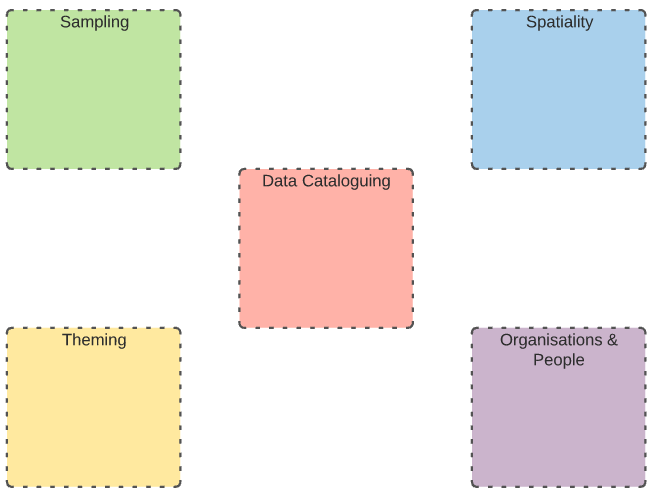
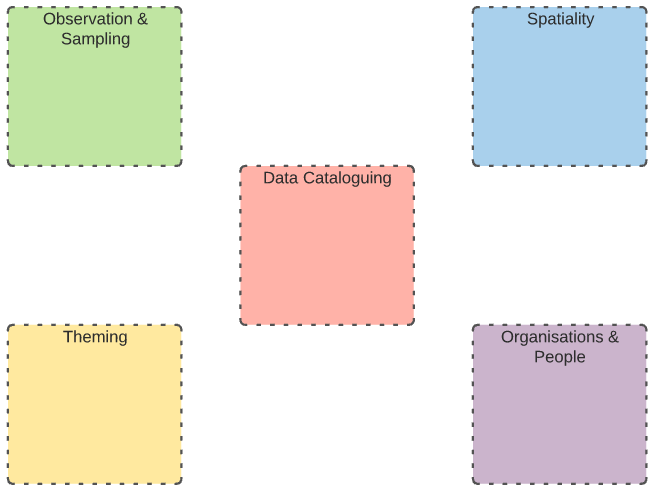
Deploying to gh-pages from  @ ba871bdd9e9633711c49eee8fa49b231d254dd38 🚀

diff --git a/supermodel.html b/supermodel.html
@@ -473,7 +473,12 @@ body.book #toc,body.book #preamble,body.book h1.sect0,body.book .sect1>h2{page-b
 <li><a href="#_theming_domain">5.5. Theming Domain</a></li>
 </ul>
 </li>
-<li><a href="#_annex_a_pid_policy">Annex A: PID Policy</a></li>
+<li><a href="#_annex_a_profile_requirements">Annex A: Profile Requirements</a>
+<ul class="sectlevel2">
+<li><a href="#_a_1_material_sample_class">A.1 Material Sample Class</a></li>
+</ul>
+</li>
+<li><a href="#_annex_b_pid_policy">Annex B: PID Policy</a></li>
 <li><a href="#_references">References</a></li>
 </ul>
 </div>
@@ -506,7 +511,7 @@ body.book #toc,body.book #preamble,body.book h1.sect0,body.book .sect1>h2{page-b
 </tr>
 <tr>
 <td class="tableblock halign-left valign-top"><p class="tableblock"><strong>Modified</strong></p></td>
-<td class="tableblock halign-left valign-top"><p class="tableblock">2022-03-02</p></td>
+<td class="tableblock halign-left valign-top"><p class="tableblock">2022-03-30</p></td>
 </tr>
 <tr>
 <td class="tableblock halign-left valign-top"><p class="tableblock"><strong>Issued</strong></p></td>
@@ -538,7 +543,7 @@ body.book #toc,body.book #preamble,body.book h1.sect0,body.book .sect1>h2{page-b
 <div class="sect2">
 <h3 id="_abstract">2.1. Abstract</h3>
 <div class="paragraph">
-<p>This Model - the GA Supermodel - is <a href="https://www.ga.gov.au">Geoscience Australia</a>'s overarching data model that provides integration logic for data elements in many of GA&#8217;s specialised domains. It also provides logic for Persistent Identifier (PID) patterning.</p>
+<p>This Model - the GA Supermodel - is <a href="https://www.ga.gov.au">Geoscience Australia</a>'s overarching data model that provides integration logic for data elements in many of GA&#8217;s specialised domains. It also provides logic for Persistent Identifier (PID) patterning. It is based on the general-purpose <a href="https://linked.data.gov.au/def/supermodel">Supermodel Model</a>.</p>
 </div>
 </div>
 <div class="sect2">
@@ -546,12 +551,12 @@ body.book #toc,body.book #preamble,body.book h1.sect0,body.book .sect1>h2{page-b
 <div class="paragraph">
 <p>This model is built on a "baseline" of Semantic Web models which use a variatey of namespaces. Prefixes for thess namespaces, used througout this document, are listed below.</p>
 </div>
-<table id="tbl-prefixes" class="tableblock frame-none grid-none stripes-even" style="width: 75%;">
+<table id="tbl-prefixes" class="tableblock frame-none grid-none stripes-even stretch">
 <caption class="title">Table 1. Namespaces</caption>
 <colgroup>
-<col style="width: 33.3333%;">
-<col style="width: 33.3333%;">
-<col style="width: 33.3334%;">
+<col style="width: 11.1111%;">
+<col style="width: 44.4444%;">
+<col style="width: 44.4445%;">
 </colgroup>
 <thead>
 <tr>
@@ -562,9 +567,9 @@ body.book #toc,body.book #preamble,body.book h1.sect0,body.book .sect1>h2{page-b
 </thead>
 <tbody>
 <tr>
-<td class="tableblock halign-left valign-top"><p class="tableblock"><strong><code>super</code></strong></p></td>
-<td class="tableblock halign-left valign-top"><p class="tableblock"><strong><code><a href="https://linked.data.gov.au/def/ga-supermodel/" class="bare">https://linked.data.gov.au/def/ga-supermodel/</a></code></strong></p></td>
-<td class="tableblock halign-left valign-top"><p class="tableblock"><strong>this model</strong></p></td>
+<td class="tableblock halign-left valign-top"><p class="tableblock"><strong><code>super:</code></strong></p></td>
+<td class="tableblock halign-left valign-top"><p class="tableblock"><strong><code><a href="https://linked.data.gov.au/def/supermodel/" class="bare">https://linked.data.gov.au/def/supermodel/</a></code></strong></p></td>
+<td class="tableblock halign-left valign-top"><p class="tableblock"><strong>the Supermodel meta-model</strong></p></td>
 </tr>
 <tr>
 <td class="tableblock halign-left valign-top"><p class="tableblock"><code>dcterms:</code></p></td>
@@ -623,7 +628,7 @@ body.book #toc,body.book #preamble,body.book h1.sect0,body.book .sect1>h2{page-b
 <dl>
 <dt class="hdlist1">Central Class</dt>
 <dd>
-<p><code><a href="http://pid.geoscience.gov.au/def/sm/terms-definitions/central-class" class="bare">http://pid.geoscience.gov.au/def/sm/terms-definitions/central-class</a></code></p>
+<p><code><a href="https://linked.data.gov.au/def/supermodel-td/central-class">smtd:central-class</a></code></p>
 <div class="paragraph">
 <p>Central Classes are the generic data classes at the centre of Data Domains with high-level relationships between them defined in this supermodel.</p>
 </div>
@@ -637,7 +642,7 @@ body.book #toc,body.book #preamble,body.book h1.sect0,body.book .sect1>h2{page-b
 <dl>
 <dt class="hdlist1">Data Domain</dt>
 <dd>
-<p><code><a href="http://pid.geoscience.gov.au/def/sm/terms-definitions/data-domain" class="bare">http://pid.geoscience.gov.au/def/sm/terms-definitions/data-domain</a></code></p>
+<p><code><a href="https://linked.data.gov.au/def/supermodel-td/data-domain">smtd:data-domain</a></code></p>
 <div class="paragraph">
 <p>High-level conceptual areas within which Geosicence Australia has data.</p>
 </div>
@@ -654,7 +659,7 @@ body.book #toc,body.book #preamble,body.book h1.sect0,body.book .sect1>h2{page-b
 <dl>
 <dt class="hdlist1">Knowledge Graph</dt>
 <dd>
-<p><code><a href="http://pid.geoscience.gov.au/def/sm/terms-definitions/knowledge-graph" class="bare">http://pid.geoscience.gov.au/def/sm/terms-definitions/knowledge-graph</a></code></p>
+<p><code><a href="https://linked.data.gov.au/def/supermodel-td/knowledge-graph">smtd:knowledge-graph</a></code></p>
 <div class="paragraph">
 <p>A Knowledge Graph is a dataset that uses a graph data tructure - nodes and edges - with strongly-defined elements.</p>
 </div>
@@ -665,7 +670,7 @@ body.book #toc,body.book #preamble,body.book h1.sect0,body.book .sect1>h2{page-b
 <dl>
 <dt class="hdlist1">Linked Data</dt>
 <dd>
-<p><code><a href="http://pid.geoscience.gov.au/def/sm/terms-definitions/linked-data" class="bare">http://pid.geoscience.gov.au/def/sm/terms-definitions/linked-data</a></code></p>
+<p><code><a href="https://linked.data.gov.au/def/supermodel-td/linked-data">smtd:linked-data</a></code></p>
 <div class="paragraph">
 <p>A set of technologies and conventions defined by the <a href="https://www.w3.org">World Wide Web Consortium</a> that aim to present data in both human- and machine-readable form over the Internet.</p>
 </div>
@@ -685,7 +690,7 @@ body.book #toc,body.book #preamble,body.book h1.sect0,body.book .sect1>h2{page-b
 <dl>
 <dt class="hdlist1">Semantic Web</dt>
 <dd>
-<p><code><a href="http://pid.geoscience.gov.au/def/sm/terms-definitions/semantic-web" class="bare">http://pid.geoscience.gov.au/def/sm/terms-definitions/semantic-web</a></code></p>
+<p><code><a href="https://linked.data.gov.au/def/supermodel-td/semantic-web">smtd:semantic-web</a></code></p>
 <div class="paragraph">
 <p>The <a href="https://www.w3.org">World Wide Web Consortium</a>'s vision of an Internet-based web of Linked Data.</p>
 </div>
@@ -734,7 +739,7 @@ body.book #toc,body.book #preamble,body.book h1.sect0,body.book .sect1>h2{page-b
 <div class="sect2">
 <h3 id="_uses">3.1. Uses</h3>
 <div class="paragraph">
-<p>This model should be used to understand the broad relationships between any data elements within GA. It can also be used to inform policy that is based on GA&#8217;s overall data structure, for example persistent identifier (PID) policy for which there is a dedicated Annex, <a href="#_annex_a_pid_policy">Annex A: PID Policy</a>.</p>
+<p>This model should be used to understand the broad relationships between any data elements within GA. It can also be used to inform policy that is based on GA&#8217;s overall data structure, for example persistent identifier (PID) policy for which there is a dedicated Annex, <a href="#Annex A: PID Policy">Annex A: PID Policy</a>.</p>
 </div>
 </div>
 </div>
@@ -842,19 +847,19 @@ body.book #toc,body.book #preamble,body.book h1.sect0,body.book .sect1>h2{page-b
 <div class="olist arabic">
 <ol class="arabic">
 <li>
-<p><a href="http://pid.geoscience.gov.au/def/sm/data-domains/data-cataloguing:">Data Cataloguing</a></p>
+<p><a href="https://linked.data.gov.au/def/supermodel/data-domains/data-cataloguing">Data Cataloguing</a></p>
 </li>
 <li>
-<p><a href="http://pid.geoscience.gov.au/def/sm/data-domains/organisations-people:">Organisations &amp; People</a></p>
+<p><a href="https://linked.data.gov.au/def/supermodel/data-domains/organisations-people">Organisations &amp; People</a></p>
 </li>
 <li>
-<p><a href="http://pid.geoscience.gov.au/def/sm/data-domains/sampling:">Sampling</a></p>
+<p><a href="https://linked.data.gov.au/def/supermodel/data-domains/theming">Theming</a></p>
 </li>
 <li>
-<p><a href="http://pid.geoscience.gov.au/def/sm/data-domains/spatiality:">Spatiality</a></p>
+<p><a href="https://linked.data.gov.au/def/supermodel/data-domains/observation">Sampling &amp; Observation</a></p>
 </li>
 <li>
-<p><a href="http://pid.geoscience.gov.au/def/sm/data-domains/theming:">Theming</a></p>
+<p><a href="https://linked.data.gov.au/def/supermodel/data-domains/spatiality">Spatiality</a></p>
 </li>
 </ol>
 </div>
@@ -868,7 +873,7 @@ body.book #toc,body.book #preamble,body.book h1.sect0,body.book .sect1>h2{page-b
 <div class="title">Figure 4. Top-level view of the GA Supermodel showing Data Domains</div>
 </div>
 <div class="paragraph">
-<p>These Data Domains are defined formally in a simple SKOS vocabulary within this model&#8217;s set of machine-readable resources. The vocabulary may be access ddirectly at <a href="http://pid.geoscience.gov.au/def/sm/data-domains" class="bare">http://pid.geoscience.gov.au/def/sm/data-domains</a>.</p>
+<p>These Data Domains are defined formally in a simple SKOS vocabulary within this model&#8217;s set of machine-readable resources. The vocabulary may be access ddirectly at <a href="https://linked.data.gov.au/def/supermodel/data-domains" class="bare">https://linked.data.gov.au/def/supermodel/data-domains</a>.</p>
 </div>
 <div class="paragraph">
 <p>Elements at all other levels of detail in this model are classified according to these Data Domains by use of the <code>dcat:theme</code> property, for example, the class <code>sosa:Sample</code> is within the <em>Sampling</em> Data Domain, so it is defined as follows:</p>
@@ -1119,7 +1124,7 @@ This supermodel&#8217;s origins are in GA&#8217;s geology and spatial data work 
 <p>This Data Domain&#8217;s main classes are taken directly from GeoSPARQL 1.1 <a href="#GEO">[GEO]</a> which is used extensively in GA already. GeoSPARQL&#8217;s main purposes are to relate things (<code>geo:Feature</code>) to their spatial projections - their geometries - and to relate things to one another - topological relations between features, such as <em>within</em>, <em>touches</em>, <em>disjoint</em> etc.</p>
 </div>
 <div class="paragraph">
-<p>Particular datasets tend to implement specialised types of things (usually referred to as <em>Feature Types</em>) and sometimes specialised relations between things, e.g. special <em>hydrological catchment</em> feature type might relate to another by being <em>upstream</em> of it. This is as per modelling in the Geofabric footnot:[<a href="https://linked.data.gov.au/dataset/geofabric" class="bare">https://linked.data.gov.au/dataset/geofabric</a>].</p>
+<p>Particular datasets tend to implement specialised types of things (usually referred to as <em>Feature Types</em>) and sometimes specialised relations between things, e.g. special <em>hydrological catchment</em> feature type might relate to another by being <em>upstream</em> of it. This is as per modelling in the Geofabric <sup class="footnote">[<a id="_footnoteref_3" class="footnote" href="#_footnotedef_3" title="View footnote.">3</a>]</sup>.</p>
 </div>
 </div>
 <div class="sect3">
@@ -1134,7 +1139,7 @@ This supermodel&#8217;s origins are in GA&#8217;s geology and spatial data work 
 <div class="title">Figure 12. Domain Main Classes for Theming</div>
 </div>
 <div class="paragraph">
-<p>This Data Domain&#8217;s main classes are taken from <a href="#SKOS">[SKOS]</a> and their expected/required properties and relations are formally defined in <em>VocPub</em>, a "vocabulary publication profile of SKOS" <a href="#VOCPUB">[VOCPUB]</a>. VocPub just mandates certain vocabulary metadata and relations between elements in vocabularies. Conformance of vocabularies to VocPub is also easily testable using the profile&#8217;s validator and online tooling that support it <sup class="footnote">[<a id="_footnoteref_3" class="footnote" href="#_footnotedef_3" title="View footnote.">3</a>]</sup>.</p>
+<p>This Data Domain&#8217;s main classes are taken from <a href="#SKOS">[SKOS]</a> and their expected/required properties and relations are formally defined in <em>VocPub</em>, a "vocabulary publication profile of SKOS" <a href="#VOCPUB">[VOCPUB]</a>. VocPub just mandates certain vocabulary metadata and relations between elements in vocabularies. Conformance of vocabularies to VocPub is also easily testable using the profile&#8217;s validator and online tooling that support it <sup class="footnote">[<a id="_footnoteref_4" class="footnote" href="#_footnotedef_4" title="View footnote.">4</a>]</sup>.</p>
 </div>
 </div>
 </div>
@@ -1252,7 +1257,72 @@ This supermodel&#8217;s origins are in GA&#8217;s geology and spatial data work 
 </div>
 </div>
 <div class="sect1">
-<h2 id="_annex_a_pid_policy">Annex A: PID Policy</h2>
+<h2 id="_annex_a_profile_requirements">Annex A: Profile Requirements</h2>
+<div class="sectionbody">
+<div class="paragraph">
+<p><em>Requirements</em> for this specification are organised as perr the classes within the GA Supermodel. See the <a href="https://surroundaustralia.github.io/ga-supermodel/supermodel.html">Supermodel main documentation</a> for more information.</p>
+</div>
+<div class="sect2">
+<h3 id="_a_1_material_sample_class">A.1 Material Sample Class</h3>
+<div class="paragraph">
+<p><code>tern:MaterialSample</code></p>
+</div>
+<div class="paragraph">
+<p>The <a href="https://linkeddata.tern.org.au/viewers/tern-ontology">TERN Ontology</a> defines a <code>tern:MaterialSample</code> subclass of <a href="https://www.w3.org/TR/vocab-ssn/">SOSA</a>'s <code>Sample</code> class which is used by GA for physical samples.</p>
+</div>
+<table class="tableblock frame-all grid-all stripes-even stretch">
+<colgroup>
+<col style="width: 5.5555%;">
+<col style="width: 16.6666%;">
+<col style="width: 33.3333%;">
+<col style="width: 44.4446%;">
+</colgroup>
+<thead>
+<tr>
+<th class="tableblock halign-left valign-top">ID</th>
+<th class="tableblock halign-left valign-top">Title</th>
+<th class="tableblock halign-left valign-top">Rule</th>
+<th class="tableblock halign-left valign-top">Notes</th>
+</tr>
+</thead>
+<tbody>
+<tr>
+<td class="tableblock halign-left valign-top"><p class="tableblock"><a href="https://linked.data.gov.au/def/ga-supermodel/req/ms.1">req:ms.1</a></p></td>
+<td class="tableblock halign-left valign-top"><p class="tableblock">Material Sample IGSN</p></td>
+<td class="tableblock halign-left valign-top"><p class="tableblock">Each Material Sample <em>MUST</em> indicate an IGSN with a <code>dcterms:identifier</code> property with an object of datatype <code>gas:igsnIri</code></p></td>
+<td class="tableblock halign-left valign-top"></td>
+</tr>
+<tr>
+<td class="tableblock halign-left valign-top"><p class="tableblock"><a href="https://linked.data.gov.au/def/ga-supermodel/req/ms.2">req:ms.2</a></p></td>
+<td class="tableblock halign-left valign-top"><p class="tableblock">Material Sample Sample ID</p></td>
+<td class="tableblock halign-left valign-top"><p class="tableblock">Each Material Sample <em>MUST</em> indicate an GA Sample ID with a <code>dcterms:identifier</code> property with an object of datatype <code>gas:sampleid</code></p></td>
+<td class="tableblock halign-left valign-top"></td>
+</tr>
+<tr>
+<td class="tableblock halign-left valign-top"><p class="tableblock"><a href="https://linked.data.gov.au/def/ga-supermodel/req/ms.z">req:ms.z</a></p></td>
+<td class="tableblock halign-left valign-top"><p class="tableblock">Material Sample State</p></td>
+<td class="tableblock halign-left valign-top"><p class="tableblock">Each Material Sample <em>MAY</em> indicate the Australian State they were aquired within and, if it does, it must indicate the state with its IRI taken from the ASGS2021 dataset</p></td>
+<td class="tableblock halign-left valign-top"></td>
+</tr>
+<tr>
+<td class="tableblock halign-left valign-top"><p class="tableblock"><a href="https://linked.data.gov.au/def/ga-supermodel/req/ms.y">req:ms.y</a></p></td>
+<td class="tableblock halign-left valign-top"><p class="tableblock">Material Sample Date Aquired</p></td>
+<td class="tableblock halign-left valign-top"><p class="tableblock">Each Material Sample <em>MUST</em> indicate the date at which it was aquired with the <code>gas:dateAcquired</code> property with an literal object of datatype <code>xsd:date</code></p></td>
+<td class="tableblock halign-left valign-top"></td>
+</tr>
+<tr>
+<td class="tableblock halign-left valign-top"><p class="tableblock"><a href="https://linked.data.gov.au/def/ga-supermodel/req/ms.x">req:ms.x</a></p></td>
+<td class="tableblock halign-left valign-top"><p class="tableblock">Material Sample Sampling Location</p></td>
+<td class="tableblock halign-left valign-top"><p class="tableblock">Each Material Sample <em>MUST</em> indicate exactly one location at which it was aquired with the <code>gas:samplingLocation</code> property with an <code>geo:Geometry</code> type object</p></td>
+<td class="tableblock halign-left valign-top"></td>
+</tr>
+</tbody>
+</table>
+</div>
+</div>
+</div>
+<div class="sect1">
+<h2 id="_annex_b_pid_policy">Annex B: PID Policy</h2>
 <div class="sectionbody">
 <div class="ulist">
 <ul>
@@ -1360,12 +1430,15 @@ This supermodel&#8217;s origins are in GA&#8217;s geology and spatial data work 
 <a href="#_footnoteref_2">2</a>. <a href="https://pypi.org/project/pyLODE/" class="bare">https://pypi.org/project/pyLODE/</a>
 </div>
 <div class="footnote" id="_footnotedef_3">
-<a href="#_footnoteref_3">3</a>. The validator itself is online at <a href="https://w3id.org/profile/vocpub/validator" class="bare">https://w3id.org/profile/vocpub/validator</a> and is pre-loaded into GA&#8217;s vocabulary servers e.g. <a href="https://vocabs.ga.gov.au" class="bare">https://vocabs.ga.gov.au</a>. It can also be selected for online validation use at <a href="https://rdftools.surroundaustralia.com" class="bare">https://rdftools.surroundaustralia.com</a>
+<a href="#_footnoteref_3">3</a>. <a href="https://linked.data.gov.au/dataset/geofabric" class="bare">https://linked.data.gov.au/dataset/geofabric</a>
+</div>
+<div class="footnote" id="_footnotedef_4">
+<a href="#_footnoteref_4">4</a>. The validator itself is online at <a href="https://w3id.org/profile/vocpub/validator" class="bare">https://w3id.org/profile/vocpub/validator</a> and is pre-loaded into GA&#8217;s vocabulary servers e.g. <a href="https://vocabs.ga.gov.au" class="bare">https://vocabs.ga.gov.au</a>. It can also be selected for online validation use at <a href="https://rdftools.surroundaustralia.com" class="bare">https://rdftools.surroundaustralia.com</a>
 </div>
 </div>
 <div id="footer">
 <div id="footer-text">
-Last updated 2022-04-14 05:58:03 UTC
+Last updated 2022-04-22 01:32:35 UTC
 </div>
 </div>
 </body>

diff --git a/sam-lite.html b/sam-lite.html
@@ -410,8 +410,8 @@ CSIRO</p></li>
             <dd>
               <ul>
                 <li><p>A simple OWL representation of the Sampling Features Schema described in clauses 9-11 of ISO 19156:2011 Geographic Information - Observations and Measurements</p></li>
-                <li><p>An OWL representation of the Sampling Features Schema described in clauses 9-11 of ISO 19156:2011 Geographic Information - Observations and Measurements. 
-In contrast to previous versions developed through SSN and in conjunction with ISO 19150-2, this ontology has minimal dependencies on existing ontologies, particularly those that trigger extended chains of imports. 
+                <li><p>An OWL representation of the Sampling Features Schema described in clauses 9-11 of ISO 19156:2011 Geographic Information - Observations and Measurements.
+In contrast to previous versions developed through SSN and in conjunction with ISO 19150-2, this ontology has minimal dependencies on existing ontologies, particularly those that trigger extended chains of imports.
 This allows use of this ontology without committing to an entire family of ontologies. </p></li>
               </ul>
             </dd>
@@ -423,7 +423,7 @@ This allows use of this ontology without committing to an entire family of ontol
             <dd>
               <a href="https://surroundaustralia.github.io/ga-supermodel/sam-lite.ttl">sam-lite.ttl</a>
             </dd>
-          </div>          
+          </div>
         </dl>
       </div>
       <div>
@@ -660,7 +660,7 @@ This allows use of this ontology without committing to an entire family of ontol
                   <li><p>Scaled number. </p></li>
                   <li><p>This is an abstract class, which should be substituted by a suitable concrete representation of a measure or quantity at run-tme. </p>
 <p>oml:SimpleMeasure <a href="http://def.seegrid.csiro.au/ontology/om/om-lite#SimpleMeasure">http://def.seegrid.csiro.au/ontology/om/om-lite#SimpleMeasure</a>
-qudt:QuantityValue <a href="http://qudt.org/schema/qudt#QuantityValue">http://qudt.org/schema/qudt#QuantityValue</a> 
+qudt:QuantityValue <a href="http://qudt.org/schema/qudt#QuantityValue">http://qudt.org/schema/qudt#QuantityValue</a>
 DUL:Region <a href="http://www.loa-cnr.it/ontologies/DUL.owl#Region">http://www.loa-cnr.it/ontologies/DUL.owl#Region</a> </p>
 <p>are candidates. </p></li>
                 </ul>
@@ -2224,7 +2224,7 @@ DUL:Region <a href="http://www.loa-cnr.it/ontologies/DUL.owl#Region">http://www.
       </div>
     </div>
     <div id="pylode">
-      <p>made by 
+      <p>made by
         <a href="https://github.com/rdflib/pyLODE">
           <span id="p">p</span>
           <span id="y">y</span>

diff --git a/ga-sampling.html b/ga-sampling.html
@@ -1116,7 +1116,7 @@
       </div>
     </div>
     <div id="pylode">
-      <p>made by 
+      <p>made by
         <a href="https://github.com/rdflib/pyLODE">
           <span id="p">p</span>
           <span id="y">y</span>

diff --git a/index.html b/index.html
@@ -514,7 +514,7 @@ SURROUND Australia Pty Ltd.<br>
 </div>
 <div id="footer">
 <div id="footer-text">
-Last updated 2022-04-14 05:58:03 UTC
+Last updated 2022-04-22 01:32:35 UTC
 </div>
 </div>
 </body>
